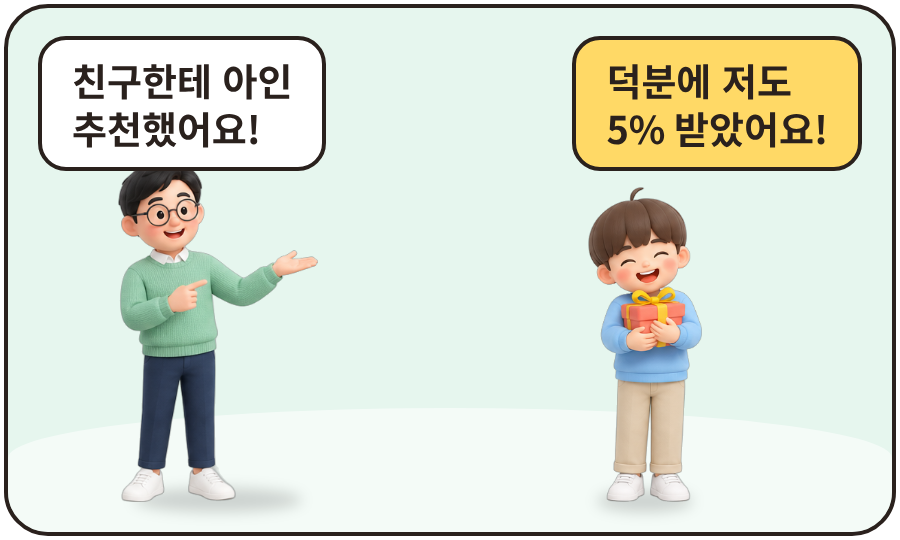
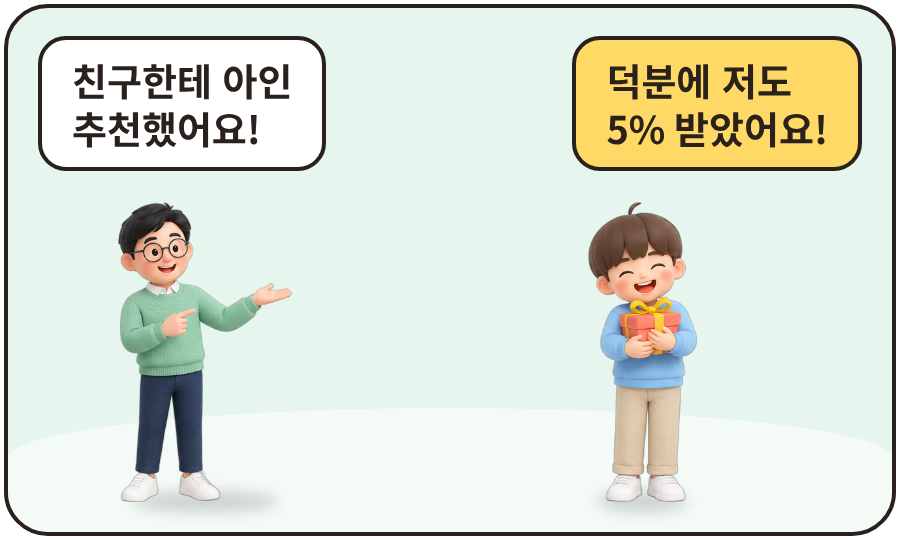
Event posts: keep characters clear of speech bubbles; redo 199 and 203
Scene characters are now 300px tall so they never touch the bubbles
(the render checks for overlap). Posts 199 and 203 get scenes with the
new 3D cast and list thumbnails without characters.

Claude-Session: https://claude.ai/code/session_01HUwuhevVJsp4MKRQXDpWmN

Changed region(s): [[0.1244, 0.2963, 0.3733, 0.9481], [0.6533, 0.3556, 0.7778, 0.9185], [0.3111, 0.9185, 0.3422, 0.9481]]

diff --git a/tools/3d/compose_cast.py b/tools/3d/compose_cast.py
@@ -18,7 +18,7 @@ def ch(name, h, x, bottom=28, flip=False, extra=''):
     t = 'transform:scaleX(-1);' if flip else ''
     return (f'<div style="position:absolute;left:{x}px;bottom:{bottom}px;height:{h}px">'
             f'<div style="position:absolute;left:8%;right:8%;bottom:-10px;height:{h*.07:.0f}px;border-radius:50%;background:rgba(0,0,0,.16);filter:blur(7px)"></div>'
-            f'<img src="{CAST}{name}.png" style="position:relative;height:{h}px;{t}{extra}"></div>')
+            f'<img class="cc" src="{CAST}{name}.png" style="position:relative;height:{h}px;{t}{extra}"></div>')
 
 
 def prop(name, h, x, y, extra=''):
@@ -110,16 +110,19 @@ def duo(lt, lc, lh, rt, rc, rh, bg):
     return f"""<div style="position:absolute;inset:4px;background:{bg};border:4px solid {INK};border-radius:44px;overflow:hidden">
 <div style="position:absolute;left:0;right:0;top:400px;bottom:-100px;background:rgba(255,255,255,.55);border-radius:50% 50% 0 0/50px 50px 0 0"></div>
 {ch(lc, lh, 110, 30)}{ch(rc, rh, 580, 30)}
-<div style="position:absolute;left:30px;top:28px;z-index:2">{bub(lt)}</div><div style="position:absolute;right:30px;top:28px;z-index:2">{bub(rt, '#FFD966')}</div></div>"""
+<div class="bb" style="position:absolute;left:30px;top:28px;z-index:2">{bub(lt)}</div><div class="bb" style="position:absolute;right:30px;top:28px;z-index:2">{bub(rt, '#FFD966')}</div></div>"""
 
 
+H = 300  # 말풍선(위쪽 약 165px)과 겹치지 않는 높이
 S = {
-    '130': duo('친구랑 같이<br>시작할래요!', 'adult-recommend', 345, '두 분 다 5%씩<br>적립해 드려요!', 'teacher-clap', 345, '#E6F6EE'),
-    '206': duo('한 번에 결제하기<br>부담돼요', 'adult-phone', 345, '카드 무이자 할부로<br>나눠 내세요!', 'teacher-explain', 345, '#E3EDFF'),
-    '207': duo('친구한테 아인<br>추천했어요!', 'adult-recommend', 345, '덕분에 저도<br>5% 받았어요!', 'student-gift', 315, '#E6F6EE'),
-    '205': duo('체험 후기<br>남겼어요!', 'student-phone', 335, '3,000원<br>적립해 드릴게요!', 'teacher-thumbs', 345, '#FFF6D6'),
-    '211': duo('첫 결제인데<br>혜택 있어요?', 'adult-card', 345, '결제 금액의 5%를<br>바로 드려요!', 'teacher-explain', 345, '#FFF1EC'),
-    '887': duo('15분 체험으론<br>아직 잘 모르겠어요', 'student-think', 325, '3번 더 해 보고<br>정해도 돼요!', 'teacher-thumbs', 345, '#E4F5F3'),
+    '130': duo('친구랑 같이<br>시작할래요!', 'adult-recommend', H, '두 분 다 5%씩<br>적립해 드려요!', 'teacher-clap', H, '#E6F6EE'),
+    '206': duo('한 번에 결제하기<br>부담돼요', 'adult-phone', H, '카드 무이자 할부로<br>나눠 내세요!', 'teacher-explain', H, '#E3EDFF'),
+    '207': duo('친구한테 아인<br>추천했어요!', 'adult-recommend', H, '덕분에 저도<br>5% 받았어요!', 'student-gift', H, '#E6F6EE'),
+    '205': duo('체험 후기<br>남겼어요!', 'student-phone', H, '3,000원<br>적립해 드릴게요!', 'teacher-thumbs', H, '#FFF6D6'),
+    '211': duo('첫 결제인데<br>혜택 있어요?', 'adult-card', H, '결제 금액의 5%를<br>바로 드려요!', 'teacher-explain', H, '#FFF1EC'),
+    '199': duo('선생님 덕분에<br>말이 늘었어요!', 'adult-thumbs', H, '그 이야기를<br>후기로 남겨 주세요!', 'teacher-clap', H, '#EEEAFF'),
+    '203': duo('다음 달도<br>계속 들을래요!', 'adult-phone', H, '네이버에서 3만원 내면<br>4만원 적립!', 'teacher-explain', H, '#FFF4E2'),
+    '887': duo('15분 체험으론<br>아직 잘 모르겠어요', 'student-think', H, '3번 더 해 보고<br>정해도 돼요!', 'teacher-thumbs', H, '#E4F5F3'),
 }
 
 
@@ -149,6 +152,9 @@ with sync_playwright() as p:
         tmp = '/tmp/cast_job.html'
         open(tmp, 'w').write(f'<html><body style="margin:0;width:{w}px;height:{h}px;position:relative;overflow:hidden;background:transparent">{html}</body></html>')
         pg = b.new_page(viewport={'width': w, 'height': h}); pg.goto('file://' + tmp); pg.wait_for_timeout(300)
+        ov = pg.evaluate('''() => { const b=[...document.querySelectorAll('.bb')].map(e=>e.getBoundingClientRect()); const c=[...document.querySelectorAll('.cc')].map(e=>e.getBoundingClientRect());
+          let n=0; for (const x of b) for (const y of c) if (x.left<y.right && y.left<x.right && x.top<y.bottom && y.top<x.bottom) n++; return n; }''')
+        if ov: print('OVERLAP', path, ov)
         if path.endswith('.jpg'): pg.screenshot(path=path, type='jpeg', quality=92)
         else: pg.screenshot(path=path, omit_background=transparent)
         pg.close(); print(path)
@@ -184,6 +190,18 @@ T = {
 <div style="margin-top:14px;display:flex;justify-content:center;align-items:flex-end;gap:8px">{big('3,000', 220, '#EC6856')}{big('원', 120, '#EC6856', sw=6)}</div>
 <div style="margin-top:20px">{line('바로 적립!', 72)}</div></div>
 {prop('prop-bubble', 230, 110, 760, 'transform:rotate(-8deg)')}{prop('prop-coins', 220, 760, 800)}""", ('#fff', '#EC6856')),
+    '199': thumb('linear-gradient(170deg,#9C8CF5,#6F5DE0)', f"""
+<div style="position:absolute;left:0;right:0;top:110px;text-align:center">{pill('수강후기 이벤트', size=40)}
+<div style="margin-top:34px">{line('베스트 후기는', 84, '#fff')}</div>
+<div style="margin-top:14px;display:flex;justify-content:center;align-items:flex-end;gap:8px">{big('최대 2만원', 190, '#FFD966')}</div>
+<div style="margin-top:24px">{line('적립해 드려요', 64, '#fff')}</div></div>
+{prop('prop-star', 230, 120, 780, 'transform:rotate(-10deg)')}<img src="file://{HERE}/cut/popper.png" style="position:absolute;left:740px;top:760px;height:250px;transform:rotate(-8deg);filter:drop-shadow(0 10px 14px rgba(0,0,0,.14))">"""),
+    '203': thumb('#FFF4E2', f"""
+<div style="position:absolute;left:0;right:0;top:110px;text-align:center">{pill('재수강 회원 전용', '#2DB46B', '#fff', 40)}
+<div style="margin-top:34px">{line('네이버 스토어에서', 80)}</div>
+<div style="margin-top:14px;display:flex;justify-content:center;align-items:center;gap:22px">{big('3만', 200, '#FFD45E')}<span style="font:900 130px/1 {F};color:#2DB46B">→</span>{big('4만', 200, '#EC6856')}</div>
+<div style="margin-top:20px">{line('매달 1만원 더 적립!', 64)}</div></div>
+{prop('prop-bag', 260, 140, 760, 'transform:rotate(-6deg)')}{prop('prop-coins', 210, 760, 820)}""", ('#2DB46B', '#FFD966', '#EC6856')),
     '211': thumb('#FFE7DE', f"""
 <div style="position:absolute;left:0;right:0;top:110px;text-align:center">{pill('신규회원 전용', size=40)}
 <div style="margin-top:34px">{line('첫 결제하면', 86)}</div>
